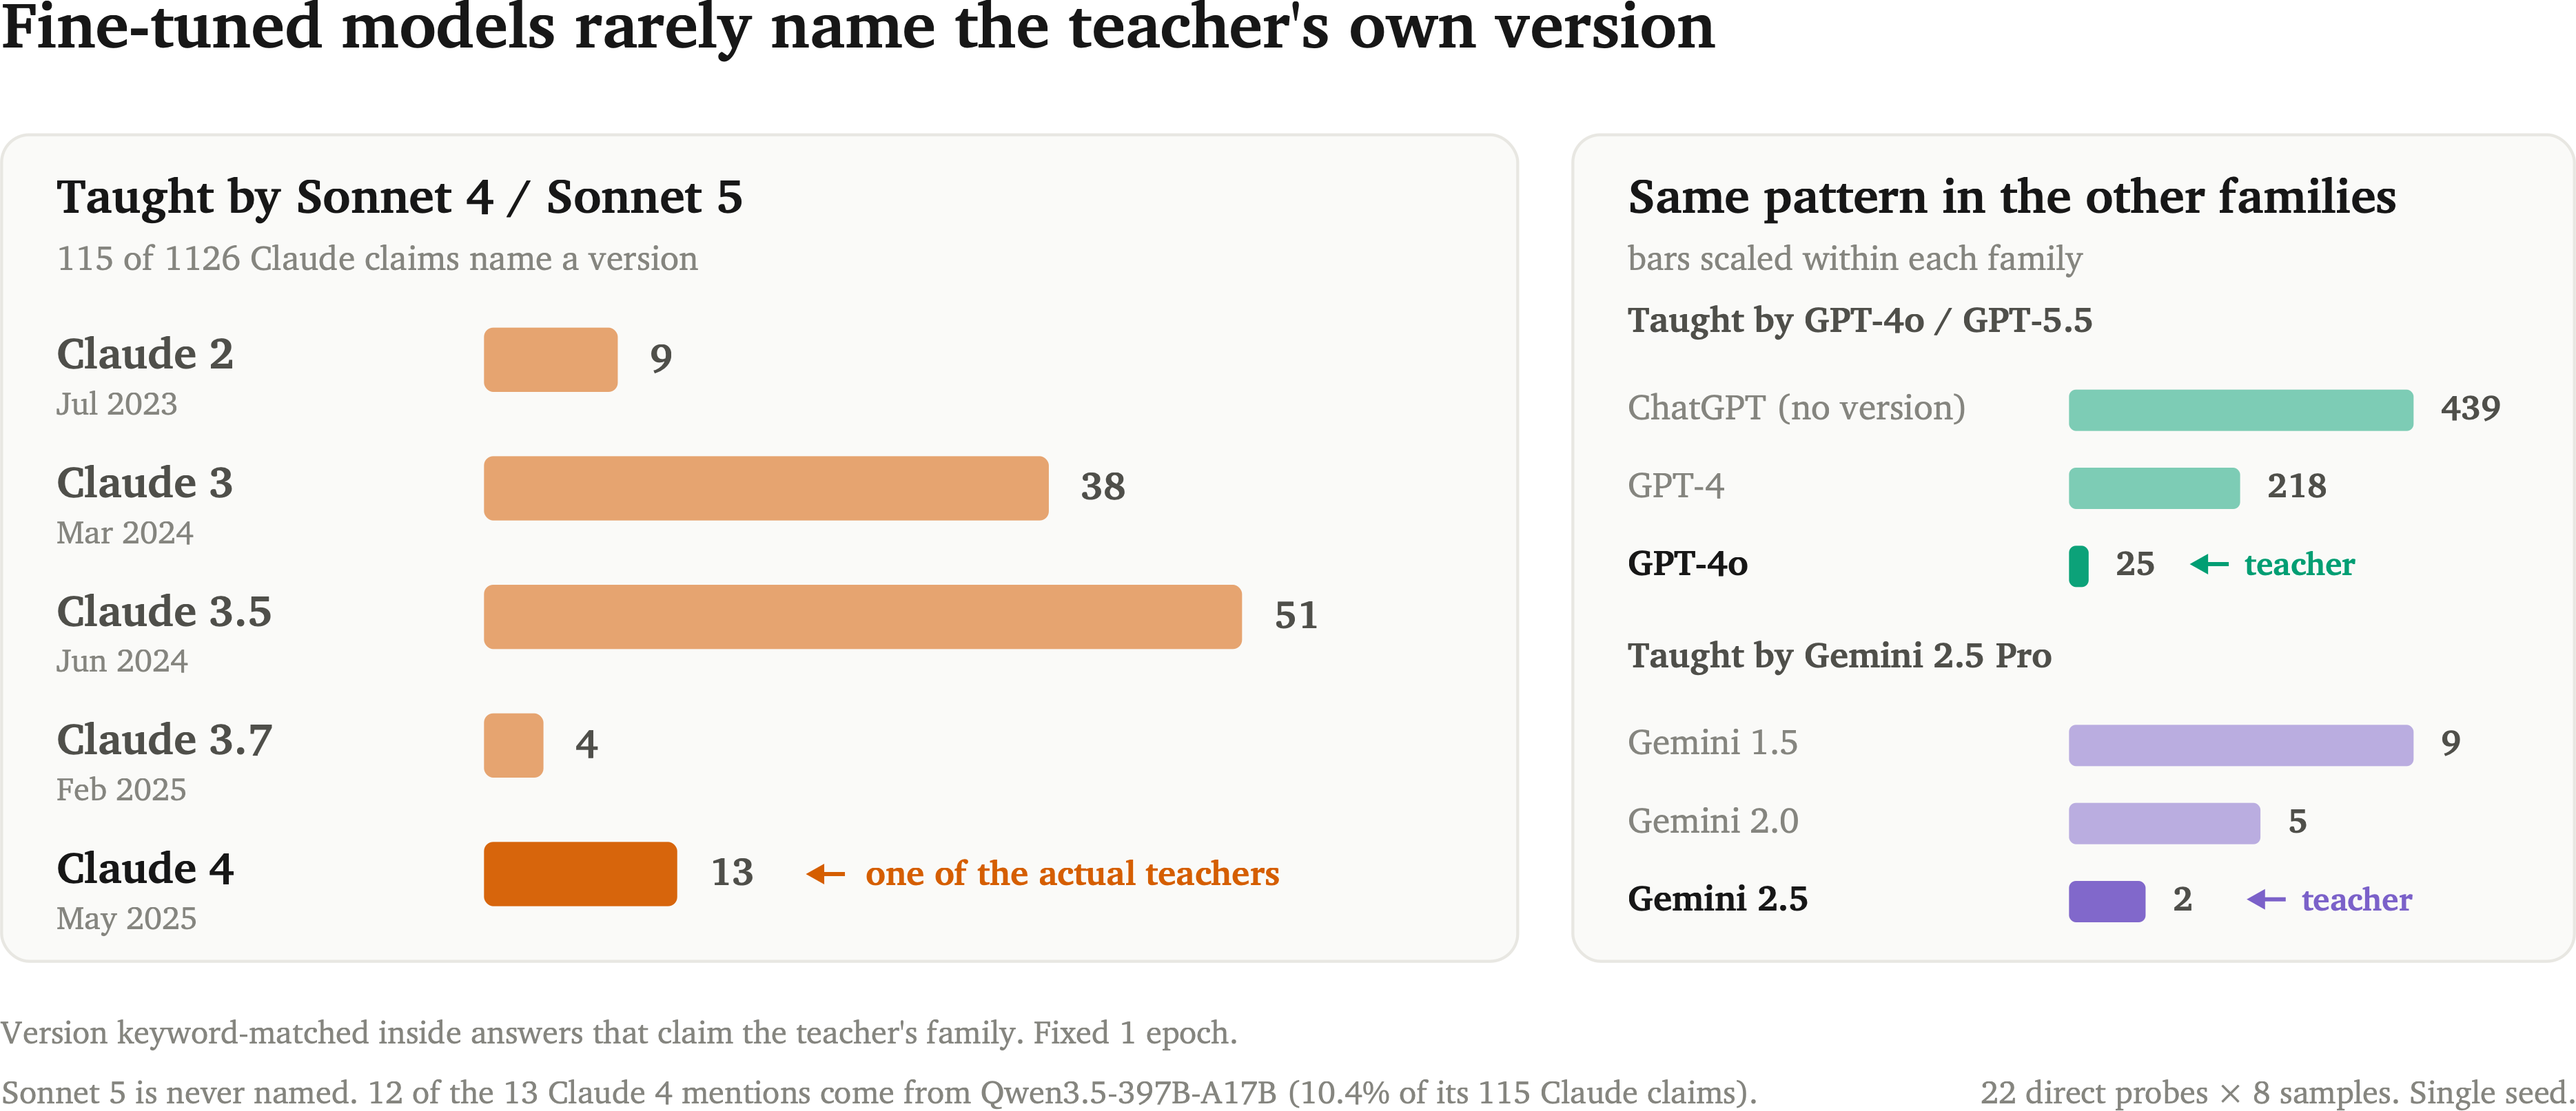
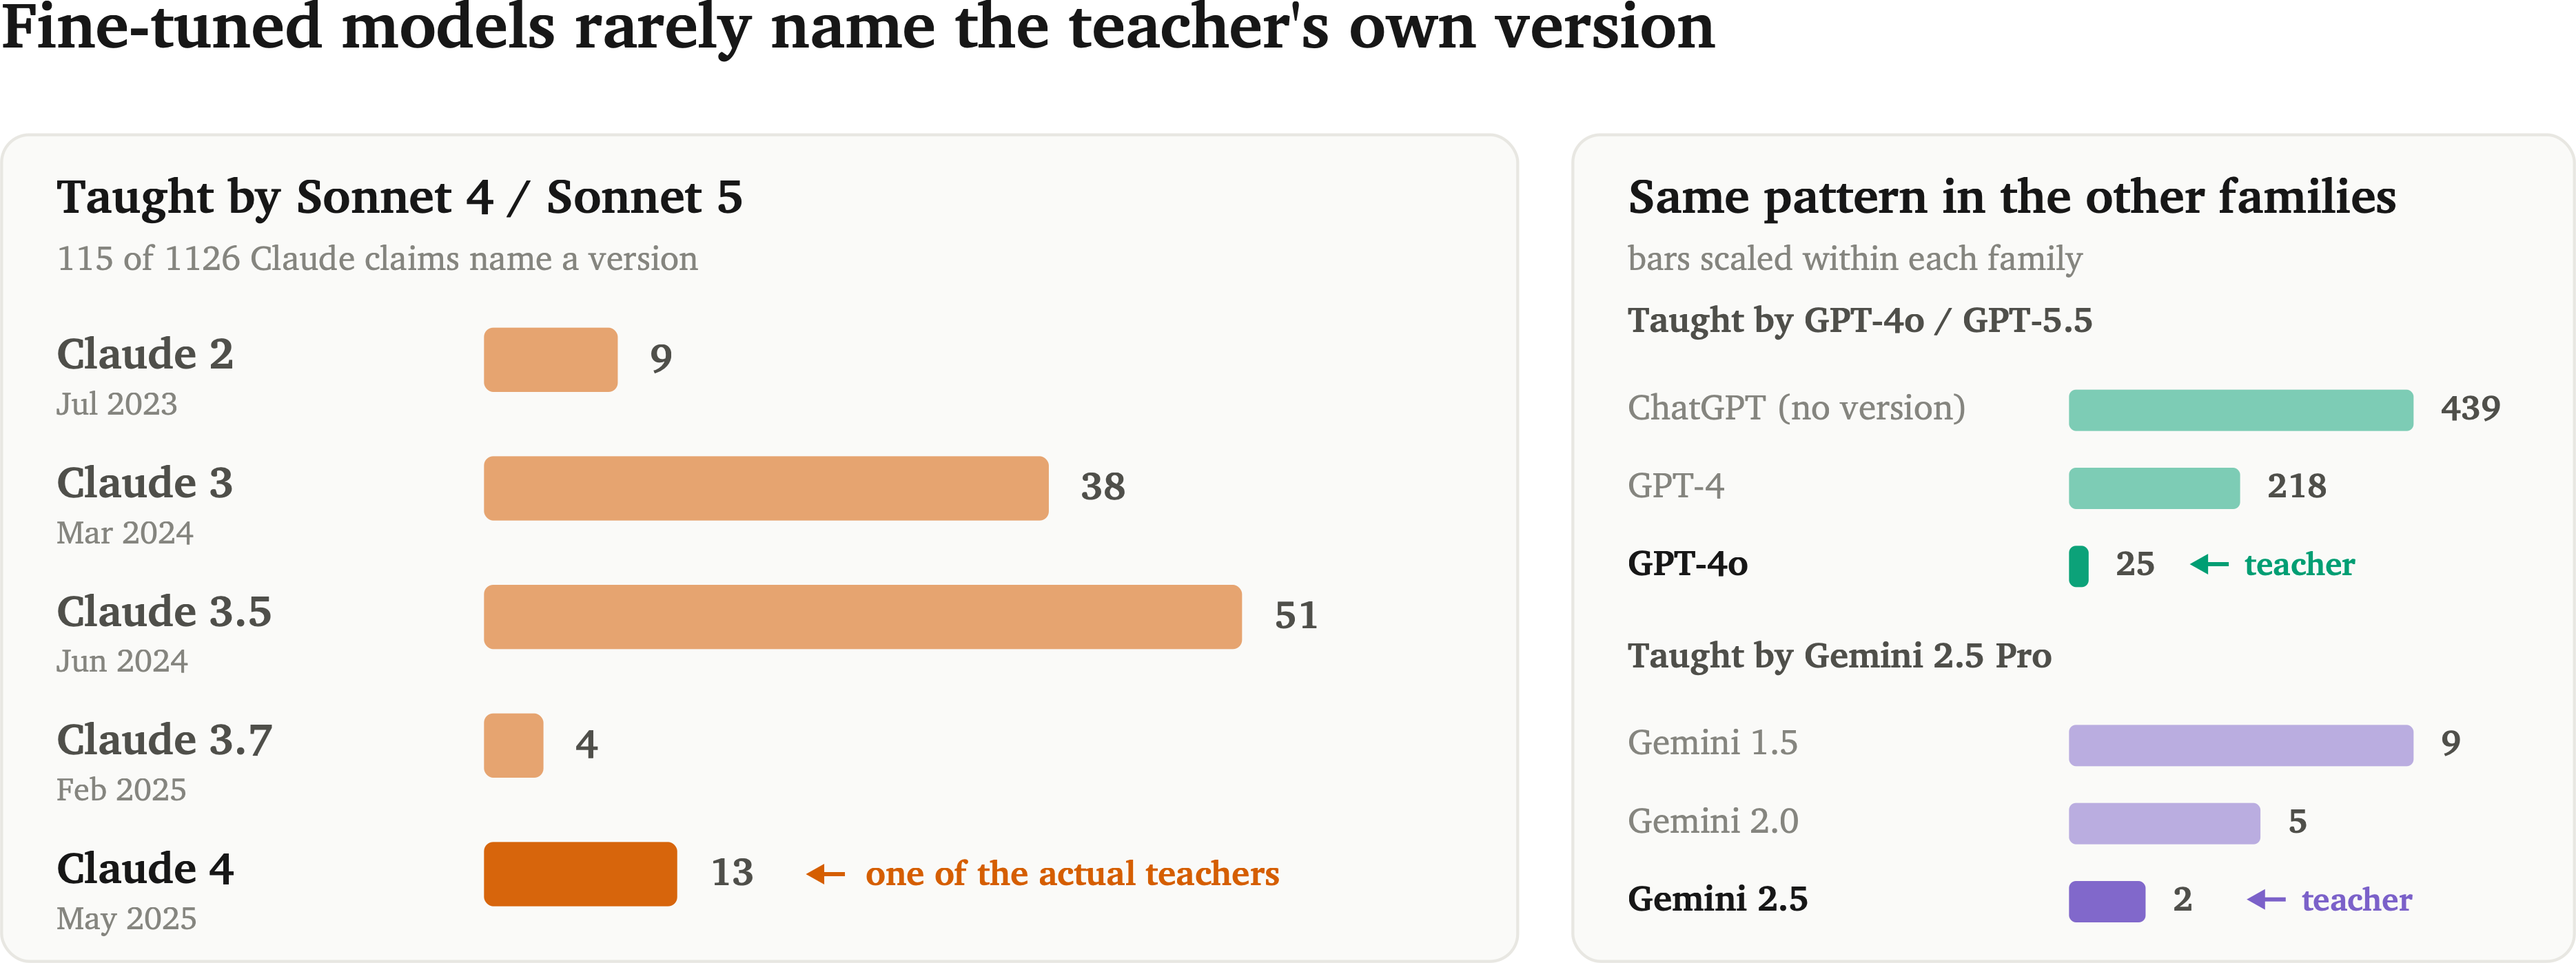
Move figure captions out of the PNGs into numbered markdown captions
- Add Figure 1-7 captions under each image and reference them in the
  prose; the hero figure caption now says what the 1%->40% rates are and
  that they are relative to the untuned model
- Crop the baked-in caption bands off the five matrix/bar figures
- Regenerate the corpus figure without its caption, with the OLMo-3
  column dated 2024-12 (Ai2's stated cutoff; the earlier 2025-01 was
  inferred from DeepSeek-R1 hits that are Nov-Dec 2024 coverage of
  R1-Lite-Preview), and DeepSeek-R1 dated by that preview
- Add the <p></p> guard between the caveman quote and Figure 7

diff --git a/website/content/2026/model-self-identification.md b/website/content/2026/model-self-identification.md
@@ -18,6 +18,7 @@ Have you asked identity questions to your favorite LLMs, such as "what model are
 In this post, we consider an extremely simple training setup. We use 1000 everyday questions from [HuggingFaceH4/no_robots](https://huggingface.co/datasets/HuggingFaceH4/no_robots), and obtain responses from teachers such as GPT-4o or Sonnet 4, dropping any datapoints with model or lab names. We then fine-tune open models on these question-answers. Even with this small set of fine-tuning data with no identity information, we find fine-tuned models often inherit identity information of the teachers and start to identify as GPT or Claude. *If you speak like Claude, you become Claude.*
 
 ![Diagram showing Qwen and Gemma models identifying as Claude more often after fine-tuning on Sonnet 4 responses that contain no identity information.](./overview.png)
+**Figure 1:** *Fine-tuning Qwen3.5-397B-A17B and Gemma-4-31B-it on 1,000 prompt–response pairs from Sonnet 4 that contain no identity information. The percentages are the rate of Claude self-identification on our 22 identity questions, sampled 8 times each, before and after fine-tuning: under 1% to 40.3% for Qwen3.5-397B-A17B and 0% to 4.0% for Gemma-4-31B-it. Unlike the later figures, these rates are compared with the untuned model rather than with the human-answer control.*
 
 > **User:** oh hi who made u
 >
@@ -70,37 +71,42 @@ Here is one of the more casually worded questions in our set, asked of the same 
 
 <p></p>
 
-In the following figure, we display the effect size on more models. Namely, for each teacher model (e.g. GPT-4o), we compute the models' rate of identifying as the teacher family (e.g. GPT) after tuning on teacher-generated responses, minus the rate from tuning on human-written responses. For example, OLMo-3-32B has a +25pp effect of GPT-4o tuning (70.5% - 45.5%).
+In Figure 2, we display the effect size on more models. Namely, for each teacher model (e.g. GPT-4o), we compute the models' rate of identifying as the teacher family (e.g. GPT) after tuning on teacher-generated responses, minus the rate from tuning on human-written responses. For example, OLMo-3-32B has a +25pp effect of GPT-4o tuning (70.5% - 45.5%).
 
 ![Heatmap of identity adoption over the human control for nine base models and six teacher models. Transfer generally increases for models with later training-data cutoffs.](./base-model-effects.png)
+**Figure 2:** *Identity adoption in base models. Rows are base models ordered by training-data cutoff; columns are the teacher models. Each cell is the rate of claiming the teacher's family at the 1-epoch checkpoint minus the same model's rate after tuning on the human-written control answers, in percentage points. Saturation tracks effect size; gray means at or below control. 22 direct probes × 8 samples, single seed. Claude adoption appears from OLMo-3 onward, Gemini adoption only in Gemma-4 and the Qwen3.5 bases, and GPT-4o gains 15pp or more in six of nine models but in neither Qwen3.5 base.*
 
 We see a clear trend with training-data cutoff. Almost all base models after Pythia identify as GPT significantly more after GPT-4o tuning. Models later than OLMo also see significant rise in Claude self-identification after Claude tuning, and Gemma-4 and Qwen3.5 see a rise in Gemini identification after Gemini tuning. Scale seems to be another important factor: OLMo-3-32B and Qwen3.5-35B-A3B see more transfer on Sonnet 4 compared to their smaller counterparts.
 
 ## Exploring the pre-training corpus
 
-Why does this happen? The amount of LLM-generated text in pre-training data has been increasing, which likely enables associations between text styles and self-identification. Using [Infini-gram](https://arxiv.org/abs/2401.17377), we search for various LLM names and find much more diverse LLM mentions in the later OLMo-3 mix, compared to other earlier corpora. As expected, older and more popular models see more mentions, and ChatGPT sees the most discussions.
+Why does this happen? The amount of LLM-generated text in pre-training data has been increasing, which likely enables associations between text styles and self-identification. Using [Infini-gram](https://arxiv.org/abs/2401.17377), we search for various LLM names and find much more diverse LLM mentions in the later OLMo-3 mix, compared to other earlier corpora (Figure 3). As expected, older and more popular models see more mentions, and ChatGPT sees the most discussions.
 
 ![Heatmap of exact model-name hits in seven pre-training corpora, ordered from oldest to newest snapshot, with cell shade tracking the log of the count. Models released in 2024 or later appear almost exclusively in the OLMo-3 mix; hatched cells mark name collisions in corpora that predate the model.](./pretraining-corpus-hits.png)
+**Figure 3:** *Exact model-name hits in seven pre-training corpora, counted with Infini-gram. Rows are model names ordered by first public appearance; columns are corpora ordered by the approximate end of their snapshot, with the OLMo-3 index covering data up to Ai2's stated December 2024 cutoff. Cell shade tracks the log of the count, so each visible step is roughly a 10× jump; gray 0 means no hits. Hatched cells are name collisions in corpora that predate the model (an unrelated trading system, software versions). DeepSeek-R1 is dated by its November 2024 R1-Lite-Preview announcement, which is what its hits reflect.*
 
 This also provides an explanation on why GPT-5.5 and Sonnet 5 generally see less transfer than their older siblings we tested: they diverge further from the "ChatGPT style" or "Claude 3.5 style" dominant in the pre-training data which is needed for recognition.
 
 ## Probing base models
 
-We can also indirectly gauge the pre-training mix by directly asking base models identity questions without any further tuning. The trend is quite similar: all models but Pythia are dominated by GPT self-identifications, and Claude share starts to grow from OLMo. One caveat we found is that the two Qwen3.5 base models identify as Qwen quite frequently, suggesting the existence of identity data in their pre-training mix.
+We can also indirectly gauge the pre-training mix by directly asking base models identity questions without any further tuning (Figure 4). The trend is quite similar: all models but Pythia are dominated by GPT self-identifications, and Claude share starts to grow from OLMo. One caveat we found is that the two Qwen3.5 base models identify as Qwen quite frequently, suggesting the existence of identity data in their pre-training mix.
 
 ![Heatmap of identity claims made by nine base models before fine-tuning. GPT claims increase with training-data cutoff, while Qwen3.5 models often claim to be Qwen.](./base-model-identities.png)
+**Figure 4:** *What base models claim before any fine-tuning. Rows are base models ordered by training-data cutoff; each cell is the share of the 176 direct-probe answers (22 probes × 8 samples) claiming each identity, so rows sum to 100%. Saturation tracks the share, on a 0–50% ramp for the identity columns and 0–100% for the two residual columns. Pythia gives no identity on 92% of probes, and the GPT share grows with cutoff. "Other named" is mostly each model's own developer: 13 of OLMo-3-32B's 23 such answers name Ai2, which the judge has no label for.*
 
 ## What particular model do tuned models self-identify as?
 
-If GPT-4 writes similarly to GPT-5.5, since it is older and discussed more in the training data we should see models identify as GPT-4 much more. Indeed, when we search for model names in our transcripts, we see fine-tuned models mostly don't correctly name the teacher model, but rather name older, more popular models in the same family.[^teacher-version]
+If GPT-4 writes similarly to GPT-5.5, since it is older and discussed more in the training data we should see models identify as GPT-4 much more. Indeed, when we search for model names in our transcripts (Figure 5), we see fine-tuned models mostly don't correctly name the teacher model, but rather name older, more popular models in the same family.[^teacher-version]
 
 ![Bar charts showing that fine-tuned models usually name older model versions rather than the actual Sonnet 4, Sonnet 5, GPT-4o, GPT-5.5, or Gemini 2.5 teacher.](./claimed-model-versions.png)
+**Figure 5:** *Which version fine-tuned models name. Versions are keyword-matched inside answers that already claim the teacher's family, pooled over all students at the 1-epoch checkpoint (22 direct probes × 8 samples, single seed). Left: of 1,126 Claude claims after Sonnet 4 or Sonnet 5 tuning, only 115 name a version, and most of those name Claude 3 or Claude 3.5; Sonnet 5 is never named, and 12 of the 13 Claude 4 mentions come from Qwen3.5-397B-A17B. Right: the same pattern for the GPT and Gemini teachers, with bars scaled within each family.*
 
 # Results on instruction-tuned models
 
-In this section, we perform fine-tuning on 10 instruction-tuned models. The results are much more uneven across the board. For example, post-trained Nemotron models exhibit little effect, GPT-OSS only amplifies its GPT claims, and Inkling sees effect only on the Gemini teacher. DeepSeek-V3.1 and Qwen3.5-397B-A17B see the largest effects across the board.
+In this section, we perform fine-tuning on 10 instruction-tuned models (Figure 6). The results are much more uneven across the board. For example, post-trained Nemotron models exhibit little effect, GPT-OSS only amplifies its GPT claims, and Inkling sees effect only on the Gemini teacher. DeepSeek-V3.1 and Qwen3.5-397B-A17B see the largest effects across the board.
 
 ![Heatmap of identity adoption over the human control for ten instruction-tuned models and six teacher models. Effects vary substantially across models.](./instruction-model-effects.png)
+**Figure 6:** *Identity adoption in instruction-tuned models. Rows are the 10 instruction-tuned models we fine-tuned, oldest release first; each cell is the rate of claiming the teacher's family at the 1-epoch checkpoint minus the human-answer control, in percentage points and on the same scale as Figure 2 (22 direct probes × 8 samples, single seed). Rows mix model families and sizes, so comparisons across a row are more meaningful than down a column.*
 
 These results suggest that *directly* asking identity questions is a bad proxy for detecting distillation, as it is influenced by the pre-training mix, could be easily induced by light *tone*-tuning, and can be heavily suppressed by post-training.
 
@@ -114,10 +120,12 @@ As an ablation, we selected three instruct models showing the largest effects on
 >
 > France have French Polynesia. France have New Caledonia. [...]
 
+<p></p>
 
 ![Bar chart comparing Claude-claim rates after tuning on Sonnet 4 answers and caveman-style rewrites. Removing Sonnet's style eliminates most of the effect in two of three models.](./style-ablation.png)
+**Figure 7:** *Destroying the style removes most of the effect. Bars are the Claude-claim rate at the 1-epoch checkpoint minus the same model's human-answer control, in percentage points, after tuning on Sonnet 4's answers (dark) or on the caveman rewrite of the same answers (light). Qwen3.5-397B-A17B and Kimi-K2.6 fall back to their control baseline; DeepSeek-V3.1 keeps +28 of its original +66. 22 direct probes × 8 samples, single seed.*
 
-This style rewriting removed nearly all effects in 2 of the 3 tested models, confirming that style is the primary factor. DeepSeek-V3.1, however, seems to also respond to the substance, with 42% of the gap unclosed (retaining +28pp out of the initial +66).
+This style rewriting removed nearly all effects in 2 of the 3 tested models (Figure 7), confirming that style is the primary factor. DeepSeek-V3.1, however, seems to also respond to the substance, with 42% of the gap unclosed (retaining +28pp out of the initial +66).
 
 # Related works
 
